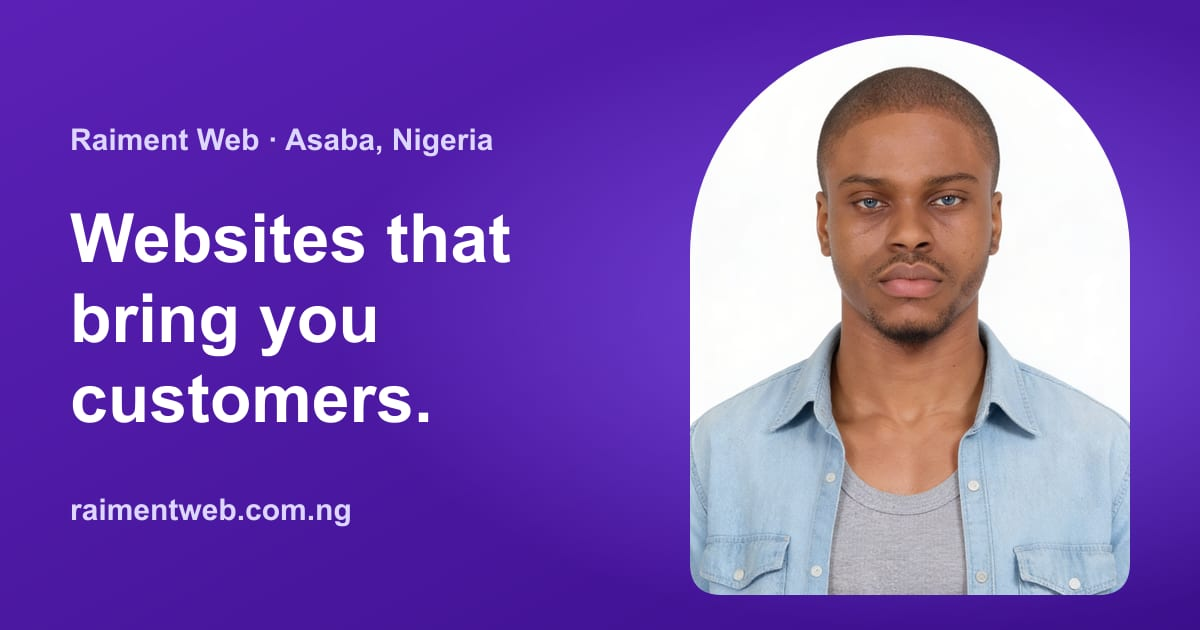
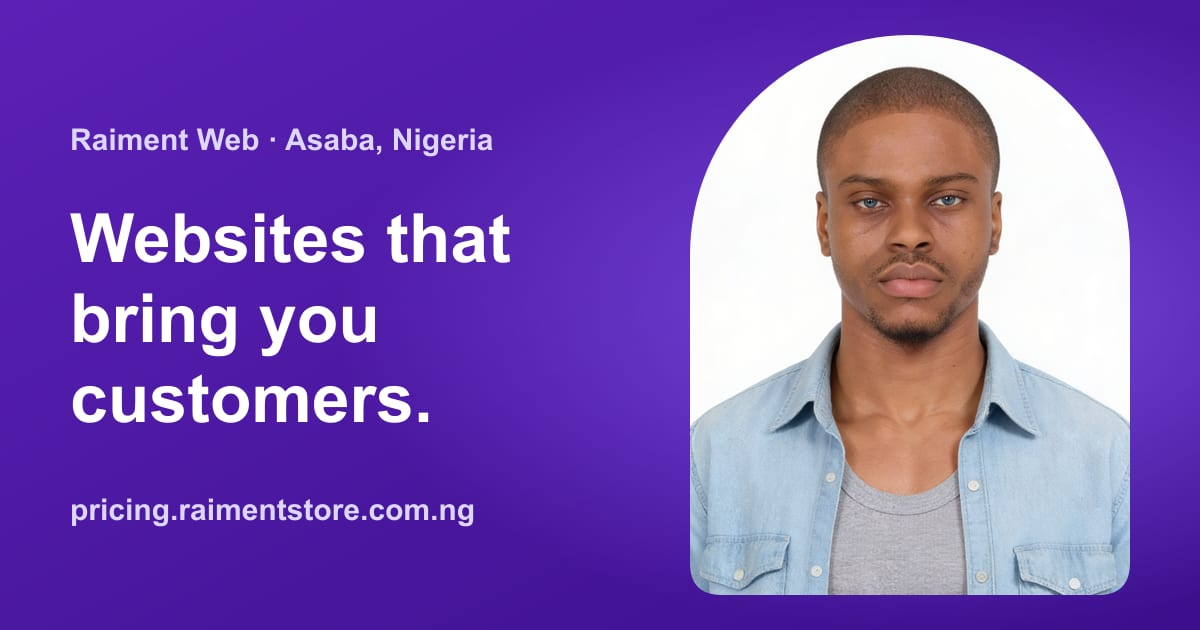
Point site URL and share image at pricing.raimentstore.com.ng

Changed region(s): [[0.0617, 0.7841, 0.4008, 0.8444]]

diff --git a/data/pricing.ts b/data/pricing.ts
@@ -123,7 +123,7 @@ export const contact = {
 export const site = {
   brand: "Raiment Web",
   owner: "Travis James",
-  url: "https://pricing.raimentweb.com.ng",
+  url: "https://pricing.raimentstore.com.ng",
   locality: "Asaba",
   region: "Delta State",
   country: "NG",

diff --git a/README.md b/README.md
@@ -55,10 +55,10 @@ Note: the "I sell on WhatsApp/Instagram" chip points to the Starter Page. Change
 
 1. Put the project on GitHub (create a new repo, then `git remote add origin <url>` and `git push -u origin main`).
 2. Go to [vercel.com/new](https://vercel.com/new), import the repo, and click **Deploy**. The defaults are correct; there are no environment variables.
-3. Add your domain: Project → **Settings → Domains** → add `pricing.raimentweb.com.ng`, then set the DNS records Vercel shows you at your domain registrar. (The root `raimentweb.com.ng` is used by the store project, so this page lives on a subdomain.)
+3. Add your domain: Project → **Settings → Domains** → add `pricing.raimentstore.com.ng`. DNS for `raimentstore.com.ng` is managed by Vercel, so no extra records are needed. (The root `raimentstore.com.ng` is used by the store project, so this page lives on a subdomain.)
 4. After changing anything in `data/pricing.ts`, push to GitHub. Vercel rebuilds and publishes by itself.
 
-If `pricing.raimentweb.com.ng` is not the final address, change `site.url` in `data/pricing.ts` so the share image and Google schema point to the right place.
+If `pricing.raimentstore.com.ng` is not the final address, change `site.url` in `data/pricing.ts` so the share image and Google schema point to the right place.
 
 ## Social share image
 
